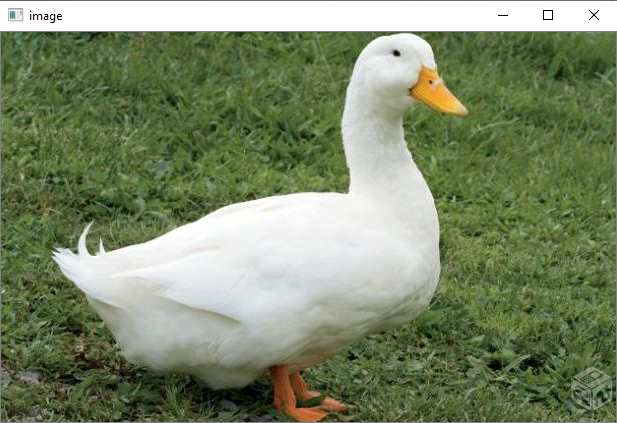
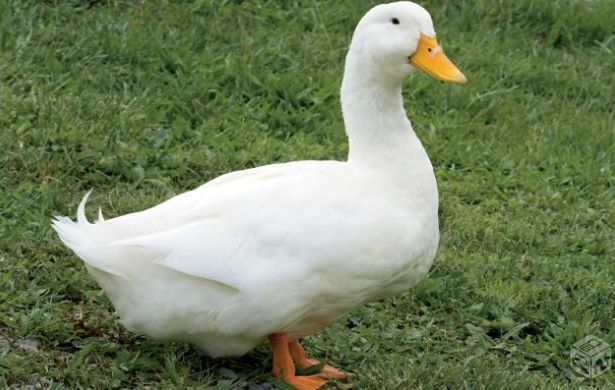
Updating sample images and README

diff --git a/README.md b/README.md
@@ -20,6 +20,11 @@ With the image open you can press **`s`** and a new tab will be opened for you t
 To quit the application simply press **`q`** any time.  
 
 ### Examples:
+- Original Image:  
 ![](./examples/1.png)  
+
+- Image with the selected points:  
 ![](./examples/2.png)  
+
+- Cropped image:  
 ![](./examples/3.png)  
